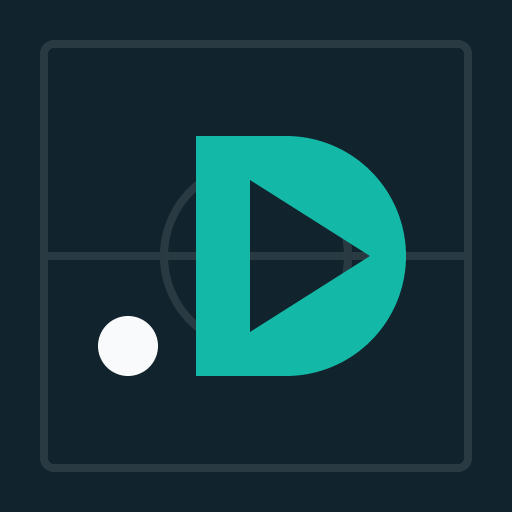
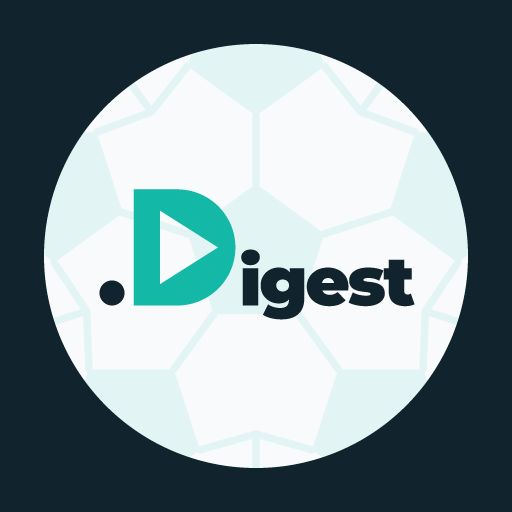
アイコンを新デザインに: 紺の背景に大きな白い丸(.)、ごく薄い緑のボールの柄、丸の中に .Digest
文字の形は Montserrat Black(SIL OFL 1.1)から取り出してスクリプトに埋め込み

diff --git a/site/index.html b/site/index.html
@@ -9,8 +9,8 @@
 <meta name="apple-mobile-web-app-title" content=".Digest">
 <meta name="theme-color" content="#0f1720">
 <link rel="manifest" href="manifest.webmanifest">
-<link rel="apple-touch-icon" href="icon-180.png">
-<link rel="icon" href="icon-192.png">
+<link rel="apple-touch-icon" href="icon-180.png?v=3">
+<link rel="icon" href="icon-192.png?v=3">
 <!-- 見出し「.Digest」用の書体(Montserrat。使う文字だけ読み込む) -->
 <link rel="preconnect" href="https://fonts.googleapis.com">
 <link rel="preconnect" href="https://fonts.gstatic.com" crossorigin>
